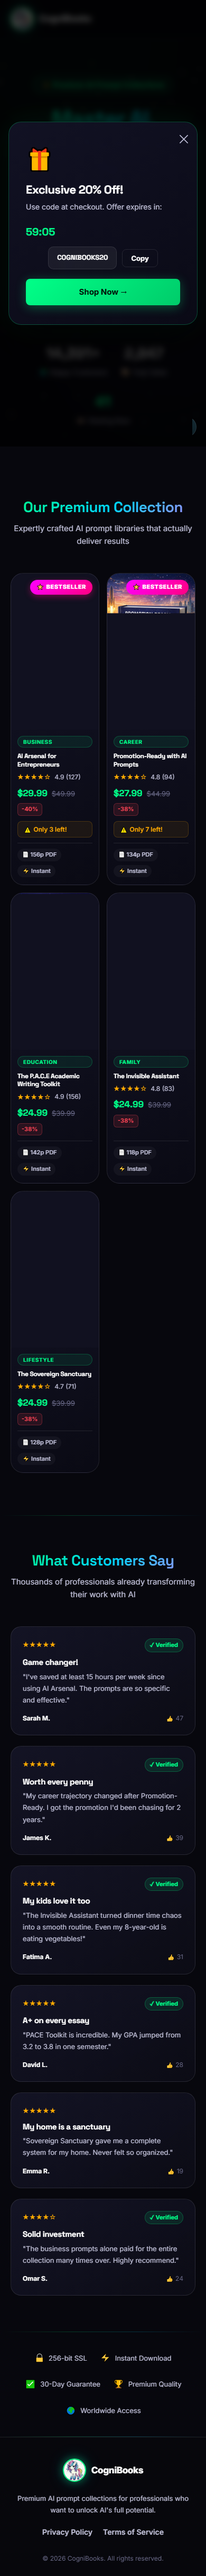
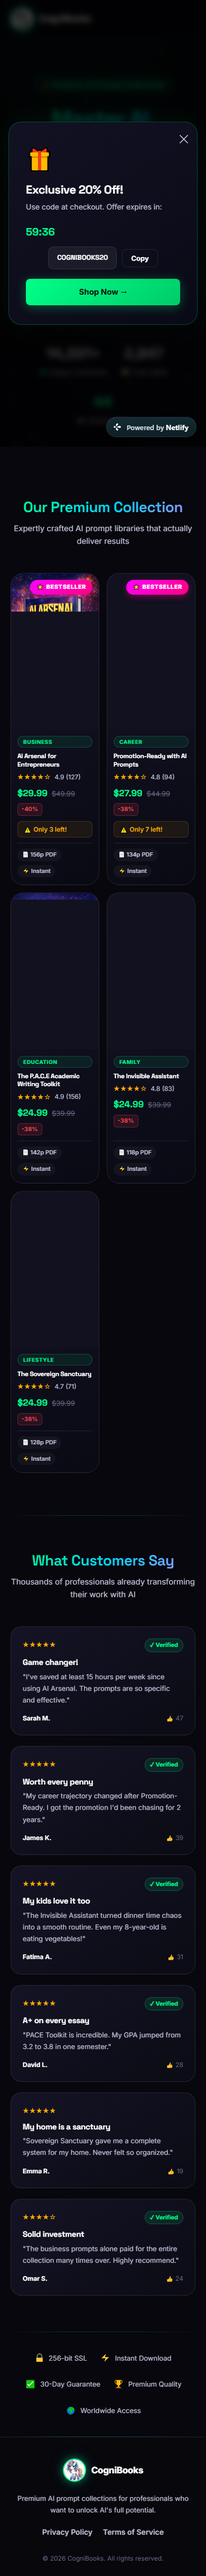
fix: increase scroll-padding and scroll-margin to prevent header intercepting clicks

Changed region(s): [[0.5231, 0.2185, 0.9538, 0.2497], [0.0615, 0.2185, 0.4923, 0.2497], [0.5231, 0.1561, 0.9231, 0.1873]]

diff --git a/src/pages/ProductPage.tsx b/src/pages/ProductPage.tsx
@@ -125,7 +125,7 @@ const ProductPage = ({ productId }: ProductPageProps) => {
               </div>
 
               <a href={`#checkout/${product.id}`} className="btn btn-primary btn-lg"
-                style={{ width:'100%',marginBottom:14,boxShadow:'0 6px 28px rgba(0,255,136,.35)' }}>
+                style={{ width:'100%',marginBottom:14,boxShadow:'0 6px 28px rgba(0,255,136,.35)',scrollMarginTop:'160px' }}>
                 🛒 Buy Now — {formatPrice(product.price)}
               </a>
 

diff --git a/src/index.css b/src/index.css
@@ -27,7 +27,7 @@
 }
 
 *, *::before, *::after { box-sizing: border-box; margin: 0; padding: 0; }
-html { scroll-behavior: smooth; font-size: 16px; scroll-padding-top: 100px; }
+html { scroll-behavior: smooth; font-size: 16px; scroll-padding-top: 140px; }
 body {
   font-family: 'Inter', system-ui, -apple-system, BlinkMacSystemFont, 'Segoe UI', sans-serif;
   background: var(--clr-bg);
